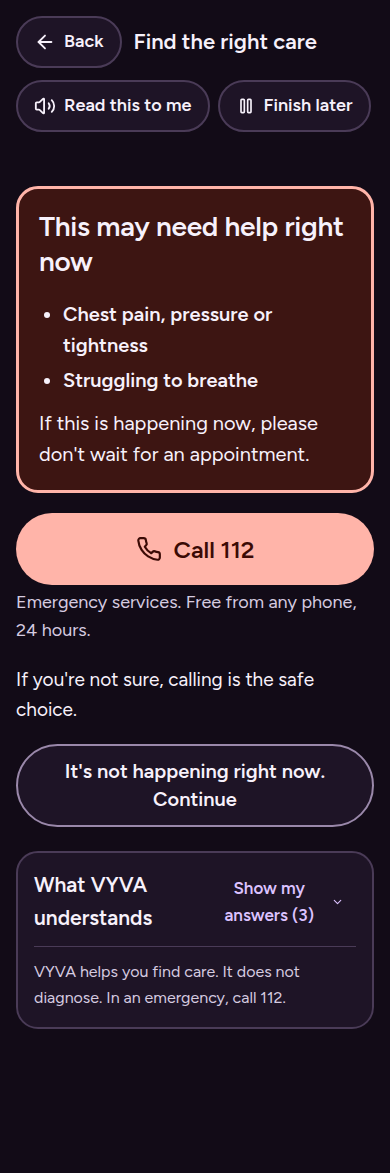
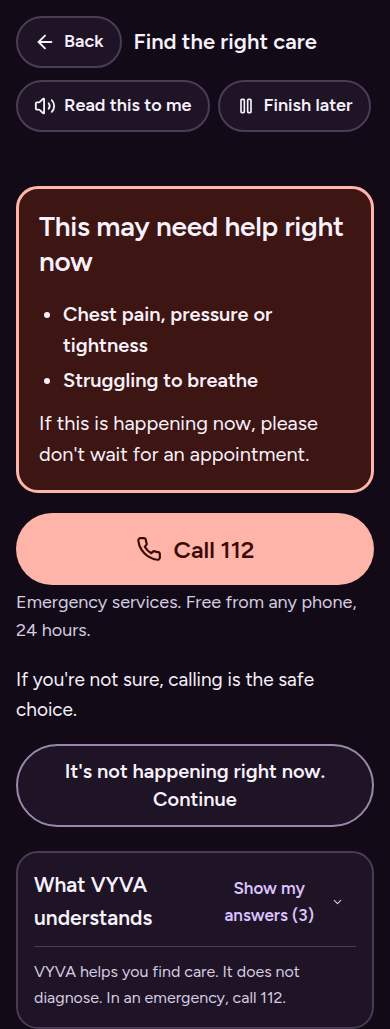
Care Finder: size layout to its own column, not the browser window
Inside the app shell Care Finder renders in a phone-width column even on
desktop screens. Viewport breakpoints (sm:/lg:) switched it to the
two-column layout there, squeezing the question into ~110px beside the
summary. Layout now uses CSS container queries on the Care Finder root,
so two columns appear only when the column itself is at least 960px.
The empty "What VYVA understands" box is no longer shown before the
first answer; the safety note stays.

Adds browser tests rendering Care Finder in 430px and 650px columns on a
1440px screen (both fail on the previous layout).

Claude-Session: https://claude.ai/code/session_01VV49smnWjUgj9Kvixja9Ew

diff --git a/src/features/careFinder/CareFinder.tsx b/src/features/careFinder/CareFinder.tsx
@@ -56,7 +56,7 @@ import type {
 } from "../../../shared/careFinder/search";
 import { careFinderCopy, type CareFinderCopy } from "./copy";
 import { ActionButton, ChoiceButton, Notice, ReadAloudButton, StepHeading, VoiceTextInput, actionClass } from "./parts";
-import { SummaryPanel } from "./SummaryPanel";
+import { SummaryPanel, careFinderSummaryRows } from "./SummaryPanel";
 import { ResultsStep, USUAL_DOCTOR_OPTION_ID, usualDoctorOption, type CareSearchStatus } from "./ResultsStep";
 import { ContactStep } from "./ContactStep";
 import "./careFinder.css";
@@ -259,7 +259,7 @@ export function CareFinder({
             ) : null}
             <fieldset>
               <legend className="mb-3 text-[19px] font-semibold">{copy.need.orChoose}</legend>
-              <div className="grid gap-3 sm:grid-cols-2">
+              <div className="cf-grid-2 grid gap-3">
                 {CARE_NEED_IDS.map((need) => (
                   <ChoiceButton
                     key={need}
@@ -312,7 +312,7 @@ export function CareFinder({
               <ChoiceButton key={flag} label={pick(lang, CARE_RED_FLAGS[flag].label)} tone="urgent" onClick={() => choose({ type: "answerSafety", flags: [flag] })} testId={`choice-flag-${flag}`} />
             ))}
             <div className="pt-2">
-              <ActionButton onClick={() => choose({ type: "answerSafety", flags: [] })} testId="button-safety-none" className="sm:w-full">{copy.safety.none}</ActionButton>
+              <ActionButton onClick={() => choose({ type: "answerSafety", flags: [] })} testId="button-safety-none" className="cf-btn-block">{copy.safety.none}</ActionButton>
             </div>
           </div>
         );
@@ -330,7 +330,7 @@ export function CareFinder({
             </div>
             {lines.map((line, index) => (
               <div key={line}>
-                <a href={`tel:${line}`} className={actionClass(index === 0 ? "urgent" : "secondary", "sm:w-full text-[24px] min-h-[72px]")} data-testid={`link-call-${line}`}>
+                <a href={`tel:${line}`} className={actionClass(index === 0 ? "urgent" : "secondary", "cf-btn-block text-[24px] min-h-[72px]")} data-testid={`link-call-${line}`}>
                   <Phone size={26} aria-hidden="true" />
                   <span>{pick(lang, CARE_EMERGENCY_LINES[line].label)}</span>
                 </a>
@@ -369,7 +369,7 @@ export function CareFinder({
                 </div>
               ))}
             </dl>
-            <div className="flex flex-col gap-3 sm:flex-row">
+            <div className="cf-row flex flex-col gap-3">
               <ActionButton onClick={() => profile && choose({ type: "acceptProfile", facts: profile })} testId="button-profile-accept">{copy.profile.accept}</ActionButton>
               <ActionButton variant="secondary" onClick={() => choose({ type: "declineProfile" })} testId="button-profile-change">{copy.profile.change}</ActionButton>
             </div>
@@ -451,7 +451,7 @@ export function CareFinder({
               />
             ))}
             <div className="pt-2">
-              <ActionButton onClick={() => choose({ type: "setAccessNeeds", needs: accessDraft })} testId="button-show-options" className="sm:w-full">
+              <ActionButton onClick={() => choose({ type: "setAccessNeeds", needs: accessDraft })} testId="button-show-options" className="cf-btn-block">
                 {copy.access.show(careLabel, state.location)}
               </ActionButton>
             </div>
@@ -525,7 +525,7 @@ export function CareFinder({
 
   return (
     <div className="care-finder min-h-full w-full" data-care-finder-theme={theme} lang={lang === "es" ? "es" : "en"} data-testid="care-finder">
-      <div className="mx-auto w-full max-w-[1120px] px-4 pb-[calc(9rem+env(safe-area-inset-bottom))] pt-4 sm:px-6 sm:pt-6">
+      <div className="mx-auto w-full cf-page max-w-[1120px] pb-[calc(9rem+env(safe-area-inset-bottom))]">
         <header className="mb-5 flex flex-wrap items-center gap-3">
           <button
             type="button"
@@ -536,8 +536,8 @@ export function CareFinder({
             <ArrowLeft size={22} aria-hidden="true" />
             {copy.back}
           </button>
-          <h1 className="min-w-0 flex-1 font-display text-[22px] font-semibold leading-tight sm:text-[26px]">{copy.title}</h1>
-          <div className="flex w-full flex-wrap gap-2 sm:w-auto">
+          <h1 className="min-w-0 flex-1 cf-title font-display font-semibold leading-tight">{copy.title}</h1>
+          <div className="cf-tools flex flex-wrap gap-2">
             <ReadAloudButton getText={readableText} lang={lang} copy={copy} resetKey={state.step} />
             <button
               type="button"
@@ -555,15 +555,20 @@ export function CareFinder({
           {saveStatus === "saving" ? copy.saving : saveStatus === "saved" ? copy.saved : saveStatus === "offline" ? copy.savedOffline : ""}
         </p>
 
-        <div className="grid gap-6 lg:grid-cols-[minmax(0,1fr)_360px] lg:items-start">
+        <div className="cf-layout">
           <div className="min-w-0 max-w-[680px]">
             <div key={state.step} className="cf-step-enter" data-care-finder-step={state.step}>
               {renderStep()}
             </div>
           </div>
-          <aside className="lg:sticky lg:top-4" aria-label={copy.summary.title}>
-            <SummaryPanel state={state} lang={lang} copy={copy} onChange={change} disabled={state.step === "urgent"} />
-          </aside>
+          {careFinderSummaryRows(state, lang, copy).length > 0 ? (
+            <aside className="cf-aside" aria-label={copy.summary.title}>
+              <SummaryPanel state={state} lang={lang} copy={copy} onChange={change} disabled={state.step === "urgent"} />
+            </aside>
+          ) : (
+            // Nothing understood yet: keep the safety note, skip an empty box.
+            <p className="text-[17px] leading-relaxed text-[var(--cf-text-2)]">{copy.disclaimer}</p>
+          )}
         </div>
       </div>
     </div>

diff --git a/e2e/care-finder.spec.ts b/e2e/care-finder.spec.ts
@@ -29,6 +29,17 @@ async function walkToResults(page: Page) {
   await expect(page.getByRole("heading", { name: /3 options for physiotherapist/ })).toBeVisible();
 }
 
+async function walkToResultsFromNeed(page: Page) {
+  await page.getByLabel("Describe it in your own words").fill("My knee has been hurting and stairs are difficult.");
+  await page.getByRole("button", { name: "Use my description" }).click();
+  await page.getByTestId("button-safety-none").click();
+  await page.getByTestId("choice-urgency-this_week").click();
+  await page.getByTestId("button-profile-accept").click();
+  await page.getByTestId("button-route-physiotherapy").click();
+  await page.getByTestId("button-show-options").click();
+  await expect(page.getByRole("heading", { name: /3 options for physiotherapist/ })).toBeVisible();
+}
+
 async function expectAccessible(page: Page) {
   await page.addScriptTag({ path: axePath });
   const result = await page.evaluate(async () => {
@@ -80,6 +91,38 @@ for (const theme of ["light", "dark"] as const) {
     await page.screenshot({ path: `src/dev/care-finder/care-finder-urgent-${theme}-mobile.png`, fullPage: true });
   });
 }
+
+// The app shell renders Care Finder in a phone-width column even on desktop
+// screens. Layout must follow that column, not the browser window.
+for (const frame of [430, 650]) {
+  test(`stays single-column inside a ${frame}px app column on a desktop screen`, async ({ page }) => {
+    await page.setViewportSize({ width: 1440, height: 1000 });
+    await open(page, `theme=light&frame=${frame}`);
+    const question = page.getByRole("heading", { name: "Who needs care?" });
+    const questionBox = await question.boundingBox();
+    expect(questionBox?.width ?? 0).toBeGreaterThan(frame - 80);
+    await expect(page.getByTestId("care-finder-summary")).toHaveCount(0);
+
+    await page.getByTestId("choice-who-self").click();
+    const summaryBox = await page.getByTestId("care-finder-summary").boundingBox();
+    const headingBox = await page.getByRole("heading", { name: "What's bothering you?" }).boundingBox();
+    // Summary stacks below the question instead of squeezing beside it.
+    expect(summaryBox!.y).toBeGreaterThan(headingBox!.y + headingBox!.height);
+    await expectLargeTargets(page);
+    await walkToResultsFromNeed(page);
+    await expectAccessible(page);
+    await page.screenshot({ path: `src/dev/care-finder/care-finder-app-column-${frame}.png`, fullPage: true });
+  });
+}
+
+test("uses two columns only when the column is genuinely wide", async ({ page }) => {
+  await page.setViewportSize({ width: 1440, height: 1000 });
+  await open(page, "theme=light");
+  await page.getByTestId("choice-who-self").click();
+  const summaryBox = await page.getByTestId("care-finder-summary").boundingBox();
+  const headingBox = await page.getByRole("heading", { name: "What's bothering you?" }).boundingBox();
+  expect(summaryBox!.x).toBeGreaterThan(headingBox!.x + 400);
+});
 
 test("contact preparation requires confirmation before calling", async ({ page }) => {
   await page.setViewportSize({ width: 390, height: 844 });

diff --git a/src/features/careFinder/parts.tsx b/src/features/careFinder/parts.tsx
@@ -15,7 +15,7 @@ export const StepHeading = forwardRef<HTMLHeadingElement, { children: ReactNode;
           id={id}
           tabIndex={-1}
           data-step-heading
-          className="font-display text-[28px] font-semibold leading-tight tracking-[-0.01em] text-[var(--cf-text)] sm:text-[32px]"
+          className="font-display font-semibold leading-tight tracking-[-0.01em] text-[var(--cf-text)] cf-h2"
         >
           {children}
         </h2>
@@ -96,7 +96,7 @@ export function ActionButton({ children, onClick, variant = "primary", type = "b
 
 export function actionClass(variant: ButtonProps["variant"] = "primary", className?: string) {
   return cx(
-    "inline-flex min-h-[60px] w-full items-center justify-center gap-3 rounded-full px-6 py-3 text-center text-[20px] font-semibold leading-snug transition-opacity disabled:cursor-not-allowed disabled:opacity-50 sm:w-auto",
+    "inline-flex min-h-[60px] items-center justify-center gap-3 rounded-full px-6 py-3 text-center text-[20px] font-semibold leading-snug transition-opacity disabled:cursor-not-allowed disabled:opacity-50 cf-btn",
     variant === "primary" && "bg-[var(--cf-accent)] text-[var(--cf-on-accent)]",
     variant === "urgent" && "bg-[var(--cf-urgent)] text-[var(--cf-on-urgent)]",
     variant === "secondary" && "border-2 border-[var(--cf-border)] bg-[var(--cf-surface)] text-[var(--cf-text)]",
@@ -177,7 +177,7 @@ export function VoiceTextInput({
       <p aria-live="polite" className="min-h-[1.5em] text-[18px] italic text-[var(--cf-text-2)]">
         {interim || (isListening ? copy.voice.listening : "")}
       </p>
-      <div className="flex flex-col gap-3 sm:flex-row">
+      <div className="cf-row flex flex-col gap-3">
         <ActionButton type="submit" disabled={!value.trim()}>{submitLabel}</ActionButton>
         {isSupported ? (
           <ActionButton

diff --git a/src/features/careFinder/SummaryPanel.tsx b/src/features/careFinder/SummaryPanel.tsx
@@ -63,13 +63,13 @@ export function SummaryPanel({
   const s = copy.summary;
 
   return (
-    <section aria-labelledby="care-finder-summary-title" className="rounded-[22px] border-2 border-[var(--cf-border-soft)] bg-[var(--cf-surface)] p-4 sm:p-5" data-testid="care-finder-summary">
+    <section aria-labelledby="care-finder-summary-title" className="rounded-[22px] border-2 border-[var(--cf-border-soft)] bg-[var(--cf-surface)] p-4" data-testid="care-finder-summary">
       <div className="flex items-center justify-between gap-3">
         <h2 id="care-finder-summary-title" className="text-[21px] font-semibold text-[var(--cf-text)]">{s.title}</h2>
         {rows.length > 0 ? (
           <button
             type="button"
-            className="inline-flex min-h-[48px] items-center gap-2 rounded-full px-3 text-[17px] font-semibold text-[var(--cf-accent)] lg:hidden"
+            className="inline-flex min-h-[48px] items-center gap-2 rounded-full px-3 text-[17px] font-semibold text-[var(--cf-accent)] cf-summary-toggle"
             aria-expanded={expanded}
             aria-controls="care-finder-summary-list"
             onClick={() => setExpanded((value) => !value)}
@@ -82,7 +82,7 @@ export function SummaryPanel({
       {rows.length === 0 ? (
         <p className="mt-2 text-[17px] text-[var(--cf-text-2)]">{s.empty}</p>
       ) : (
-        <dl id="care-finder-summary-list" className={`${expanded ? "block" : "hidden"} mt-3 divide-y divide-[var(--cf-border-soft)] lg:block`}>
+        <dl id="care-finder-summary-list" data-expanded={expanded ? "true" : "false"} className="cf-summary-list mt-3 divide-y divide-[var(--cf-border-soft)]">
           {rows.map((row) => (
             <div key={row.key} className="py-3">
               <dt className="text-[16px] font-semibold text-[var(--cf-text-2)]">{row.label}</dt>

diff --git a/src/features/careFinder/careFinder.css b/src/features/careFinder/careFinder.css
@@ -94,3 +94,99 @@
     transform: none;
   }
 }
+
+/* Layout follows the space Care Finder is given, not the browser window:
+   inside the app shell it often sits in a phone-width column on a desktop
+   screen, where viewport breakpoints would squeeze it into two columns. */
+.care-finder {
+  container-type: inline-size;
+  container-name: care-finder;
+}
+
+.care-finder .cf-page {
+  padding: 16px 16px 0;
+}
+
+.care-finder .cf-title {
+  font-size: 22px;
+}
+
+.care-finder .cf-h2 {
+  font-size: 28px;
+}
+
+.care-finder .cf-tools {
+  width: 100%;
+}
+
+.care-finder .cf-btn {
+  width: 100%;
+}
+
+.care-finder .cf-layout {
+  display: grid;
+  gap: 24px;
+}
+
+.care-finder .cf-summary-list[data-expanded="false"] {
+  display: none;
+}
+
+@container care-finder (min-width: 560px) {
+  .care-finder .cf-page {
+    padding: 24px 24px 0;
+  }
+
+  .care-finder .cf-title {
+    font-size: 26px;
+  }
+
+  .care-finder .cf-h2 {
+    font-size: 32px;
+  }
+
+  .care-finder .cf-tools {
+    width: auto;
+  }
+
+  .care-finder .cf-btn {
+    width: auto;
+  }
+
+  .care-finder .cf-btn.cf-btn-block {
+    width: 100%;
+  }
+
+  .care-finder .cf-row {
+    flex-direction: row;
+  }
+
+  .care-finder .cf-grid-2 {
+    grid-template-columns: repeat(2, minmax(0, 1fr));
+  }
+
+  .care-finder .cf-fact-row {
+    grid-template-columns: minmax(0, 11rem) 1fr;
+  }
+}
+
+/* Two columns only when there is genuinely room for both. */
+@container care-finder (min-width: 960px) {
+  .care-finder .cf-layout {
+    grid-template-columns: minmax(0, 1fr) 340px;
+    align-items: start;
+  }
+
+  .care-finder .cf-aside {
+    position: sticky;
+    top: 16px;
+  }
+
+  .care-finder .cf-summary-toggle {
+    display: none;
+  }
+
+  .care-finder .cf-summary-list[data-expanded="false"] {
+    display: block;
+  }
+}

diff --git a/src/features/careFinder/ResultsStep.tsx b/src/features/careFinder/ResultsStep.tsx
@@ -113,7 +113,7 @@ function OptionCard({
         {facts.length > 0 ? (
           <dl className="mt-4 divide-y divide-[var(--cf-border-soft)] rounded-[16px] border border-[var(--cf-border-soft)]">
             {facts.map((fact) => (
-              <div key={fact.criterion} className="grid gap-1 px-4 py-3 sm:grid-cols-[minmax(0,11rem)_1fr]">
+              <div key={fact.criterion} className="cf-fact-row grid gap-1 px-4 py-3">
                 <dt className="text-[17px] font-semibold text-[var(--cf-text-2)]">{r.facts[fact.criterion]}</dt>
                 <dd className="text-[18px] text-[var(--cf-text)]">
                   <span className="block break-words">{factValue(fact, copy)}</span>
@@ -137,7 +137,7 @@ function OptionCard({
           <p className="mt-3 text-[16px] text-[var(--cf-text-2)]">{r.checkedOn(formatCheckedAt(option.checked_at, lang))}</p>
         ) : null}
 
-        <div className="mt-4 flex flex-col gap-3 sm:flex-row sm:flex-wrap">
+        <div className="cf-row mt-4 flex flex-col flex-wrap gap-3">
           <ActionButton onClick={onPrepare} icon={<Phone size={22} />} testId={`button-prepare-${option.id}`}>{r.prepare(option.name)}</ActionButton>
           {option.maps_url ? (
             <a href={option.maps_url} target="_blank" rel="noreferrer" className={actionClass("secondary")}>

diff --git a/src/dev/care-finder/main.tsx b/src/dev/care-finder/main.tsx
@@ -10,6 +10,8 @@ const params = new URLSearchParams(window.location.search);
 const theme = params.get("theme") === "dark" ? "dark" : "light";
 const lang = params.get("locale") === "es" ? "es" : "en";
 const scenario = params.get("scenario") ?? "ok";
+// ?frame=430 mimics the app shell: a narrow column on a wide screen.
+const frame = Number(params.get("frame")) || null;
 const checkedAt = new Date().toISOString();
 
 function fact(value: string | null, status: "reported" | "verified" | "unknown", source = "Google Maps") {
@@ -87,6 +89,8 @@ document.body.style.margin = "0";
 
 ReactDOM.createRoot(document.getElementById("root")!).render(
   <React.StrictMode>
-    <CareFinder lang={lang} theme={theme} profile={profile} services={services} onExit={() => undefined} />
+    <div style={frame ? { maxWidth: frame, margin: "0 auto" } : undefined} data-testid="harness-frame">
+      <CareFinder lang={lang} theme={theme} profile={profile} services={services} onExit={() => undefined} />
+    </div>
   </React.StrictMode>,
 );

diff --git a/src/features/careFinder/ContactStep.tsx b/src/features/careFinder/ContactStep.tsx
@@ -184,7 +184,7 @@ export function ContactStep({
           <>
             <p className="text-[18px] text-[var(--cf-text-2)]">{c.shareIntro}</p>
             <pre className="whitespace-pre-wrap break-words rounded-[16px] bg-[var(--cf-surface-2)] p-4 font-body text-[18px] text-[var(--cf-text)]" data-testid="care-share-preview">{shareMessage}</pre>
-            <div className="flex flex-col gap-3 sm:flex-row">
+            <div className="cf-row flex flex-col gap-3">
               <ActionButton onClick={() => void shareNow()} icon={typeof navigator !== "undefined" && "share" in navigator ? <Share2 size={22} /> : <Copy size={22} />}>
                 {typeof navigator !== "undefined" && "share" in navigator ? c.shareButton : c.copyButton}
               </ActionButton>
